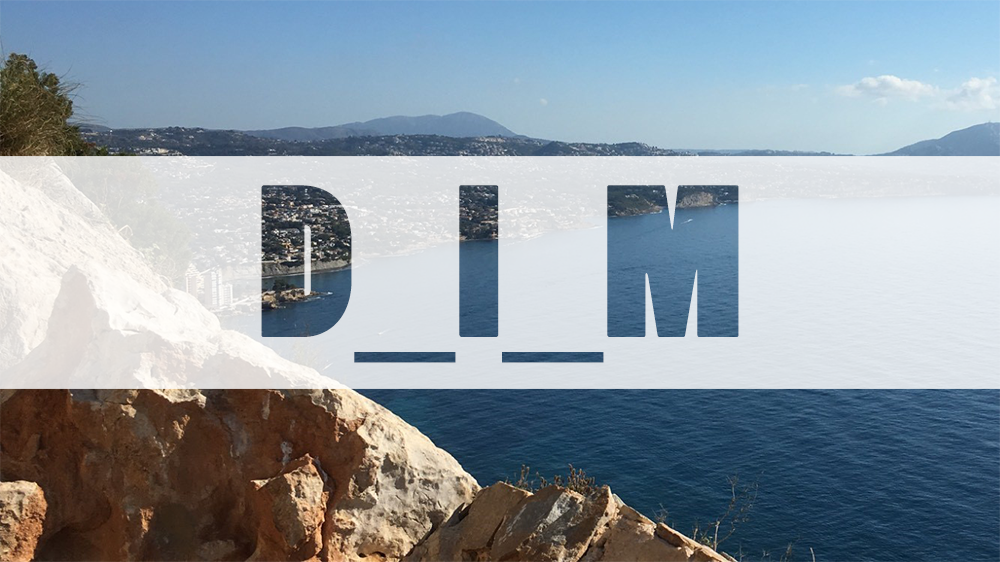
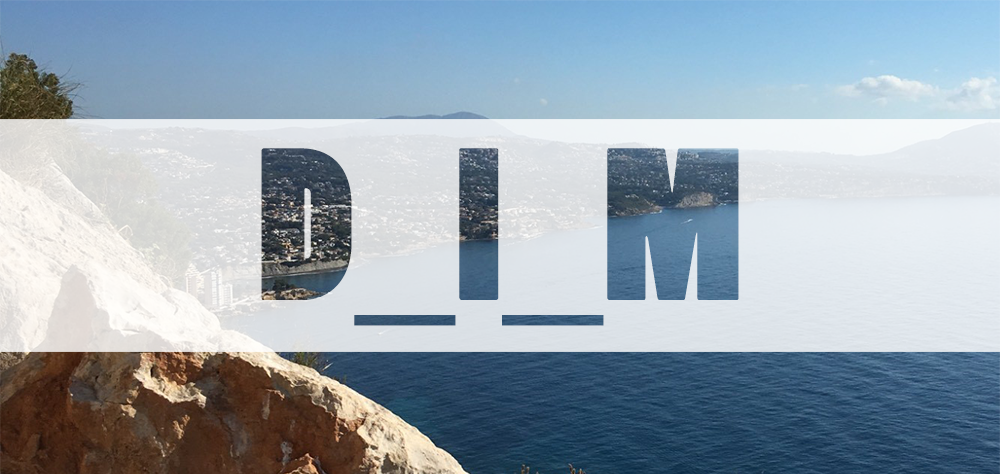
headerimage added

diff --git a/src/containers/HomePage/HeaderImage.js b/src/containers/HomePage/HeaderImage.js
@@ -1,5 +1,5 @@
 import React from 'react';
-import logo_dim from "../../assets/logo_dim.png";
+import headerimage from "../../assets/headerimage.png";
  import {
    Link
  } from 'react-router'
@@ -13,16 +13,14 @@ class HeaderImage extends React.Component {
   render() {
 
     return (
-      <section className="homepage-headerimage">
-        <div className="container">     
+      <section className="homepage-headerimage">    
           <div className="level">
             <div className="level-left"></div>
-            <div className="level-item is-centered">
-              <img src={logo_dim} alt="D_I_M logo"/>
+            <div className="level-item image">
+              <img src={headerimage} alt="D_I_M logo on spain background"/>
             </div>
             <div className="level-right"></div>  
           </div>        
-        </div>
       </section>
     )
   }
